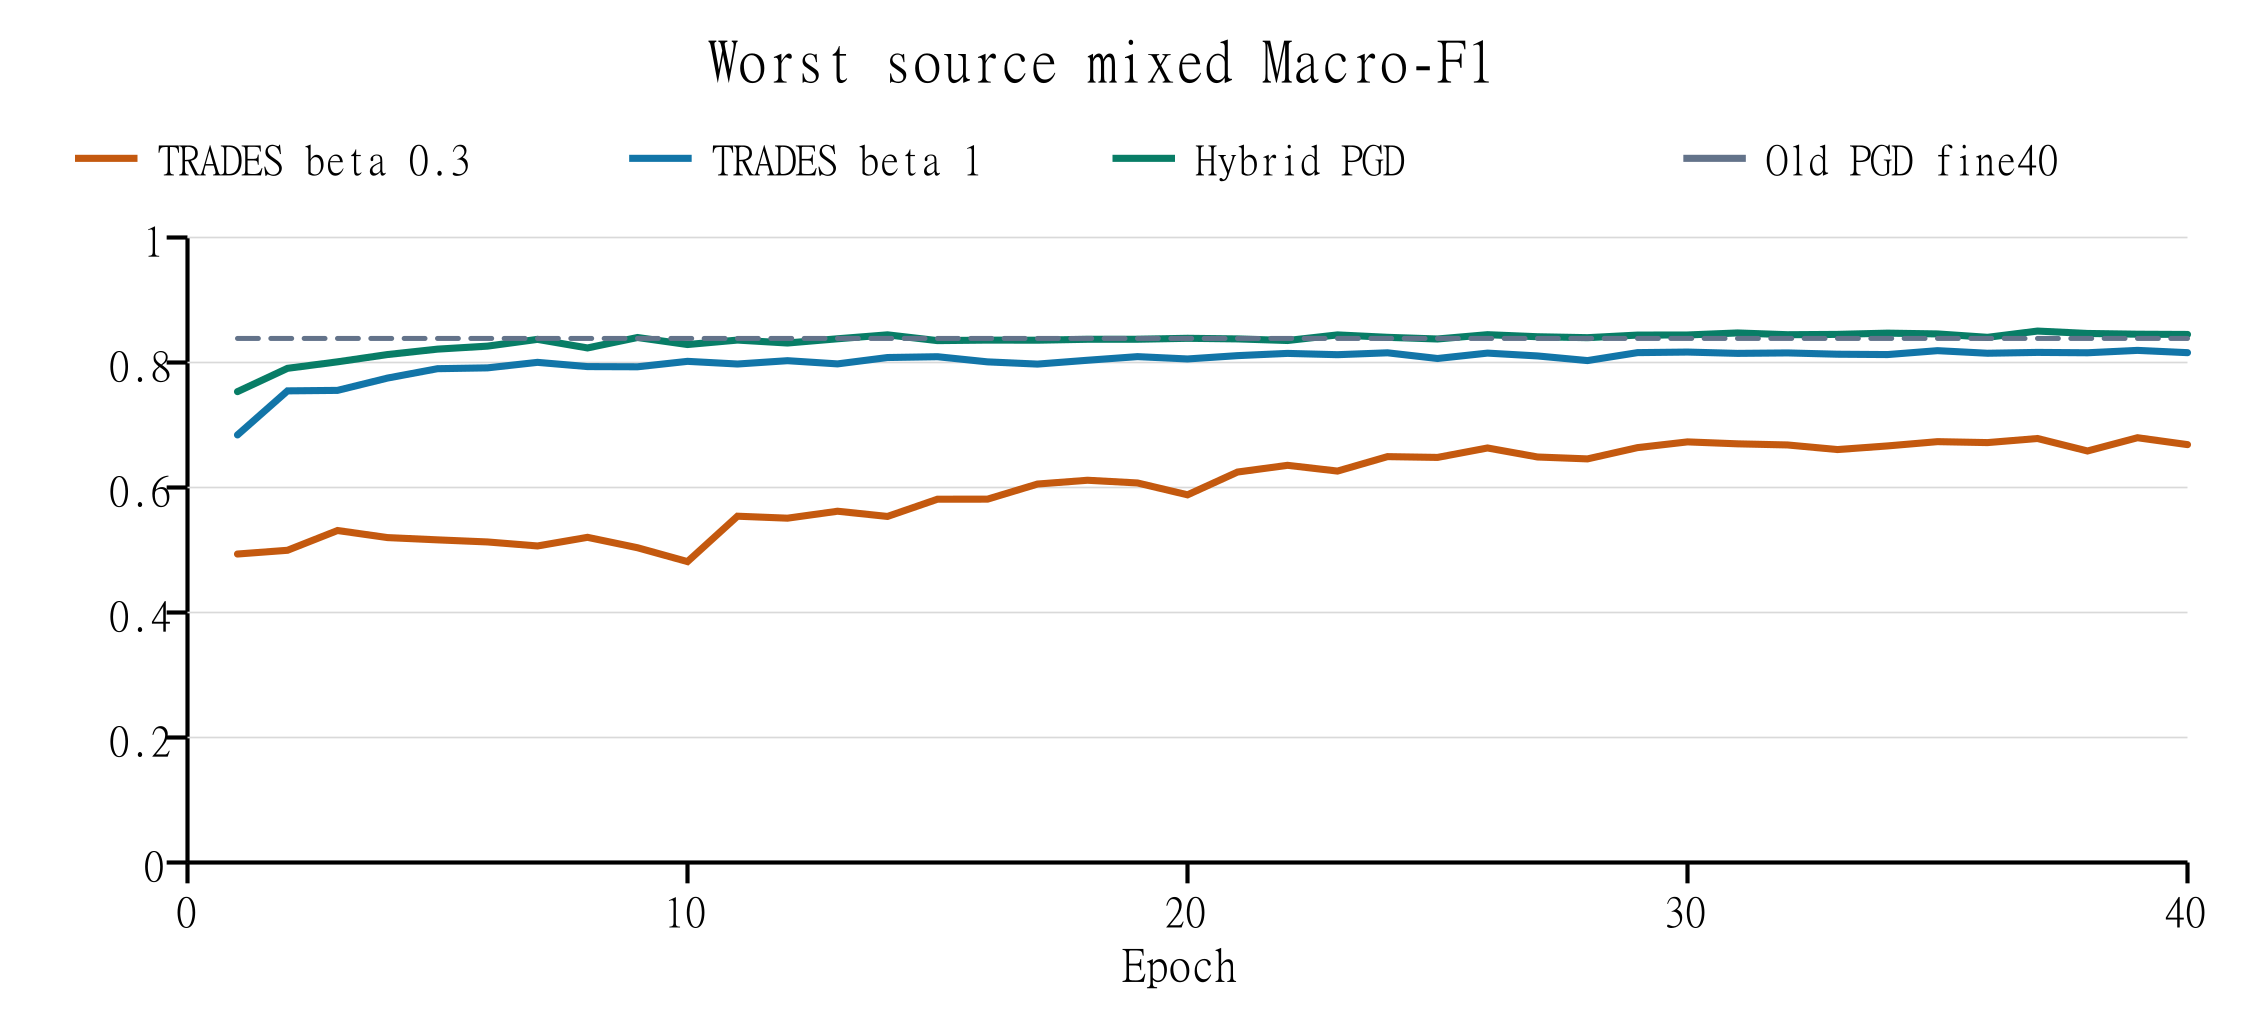
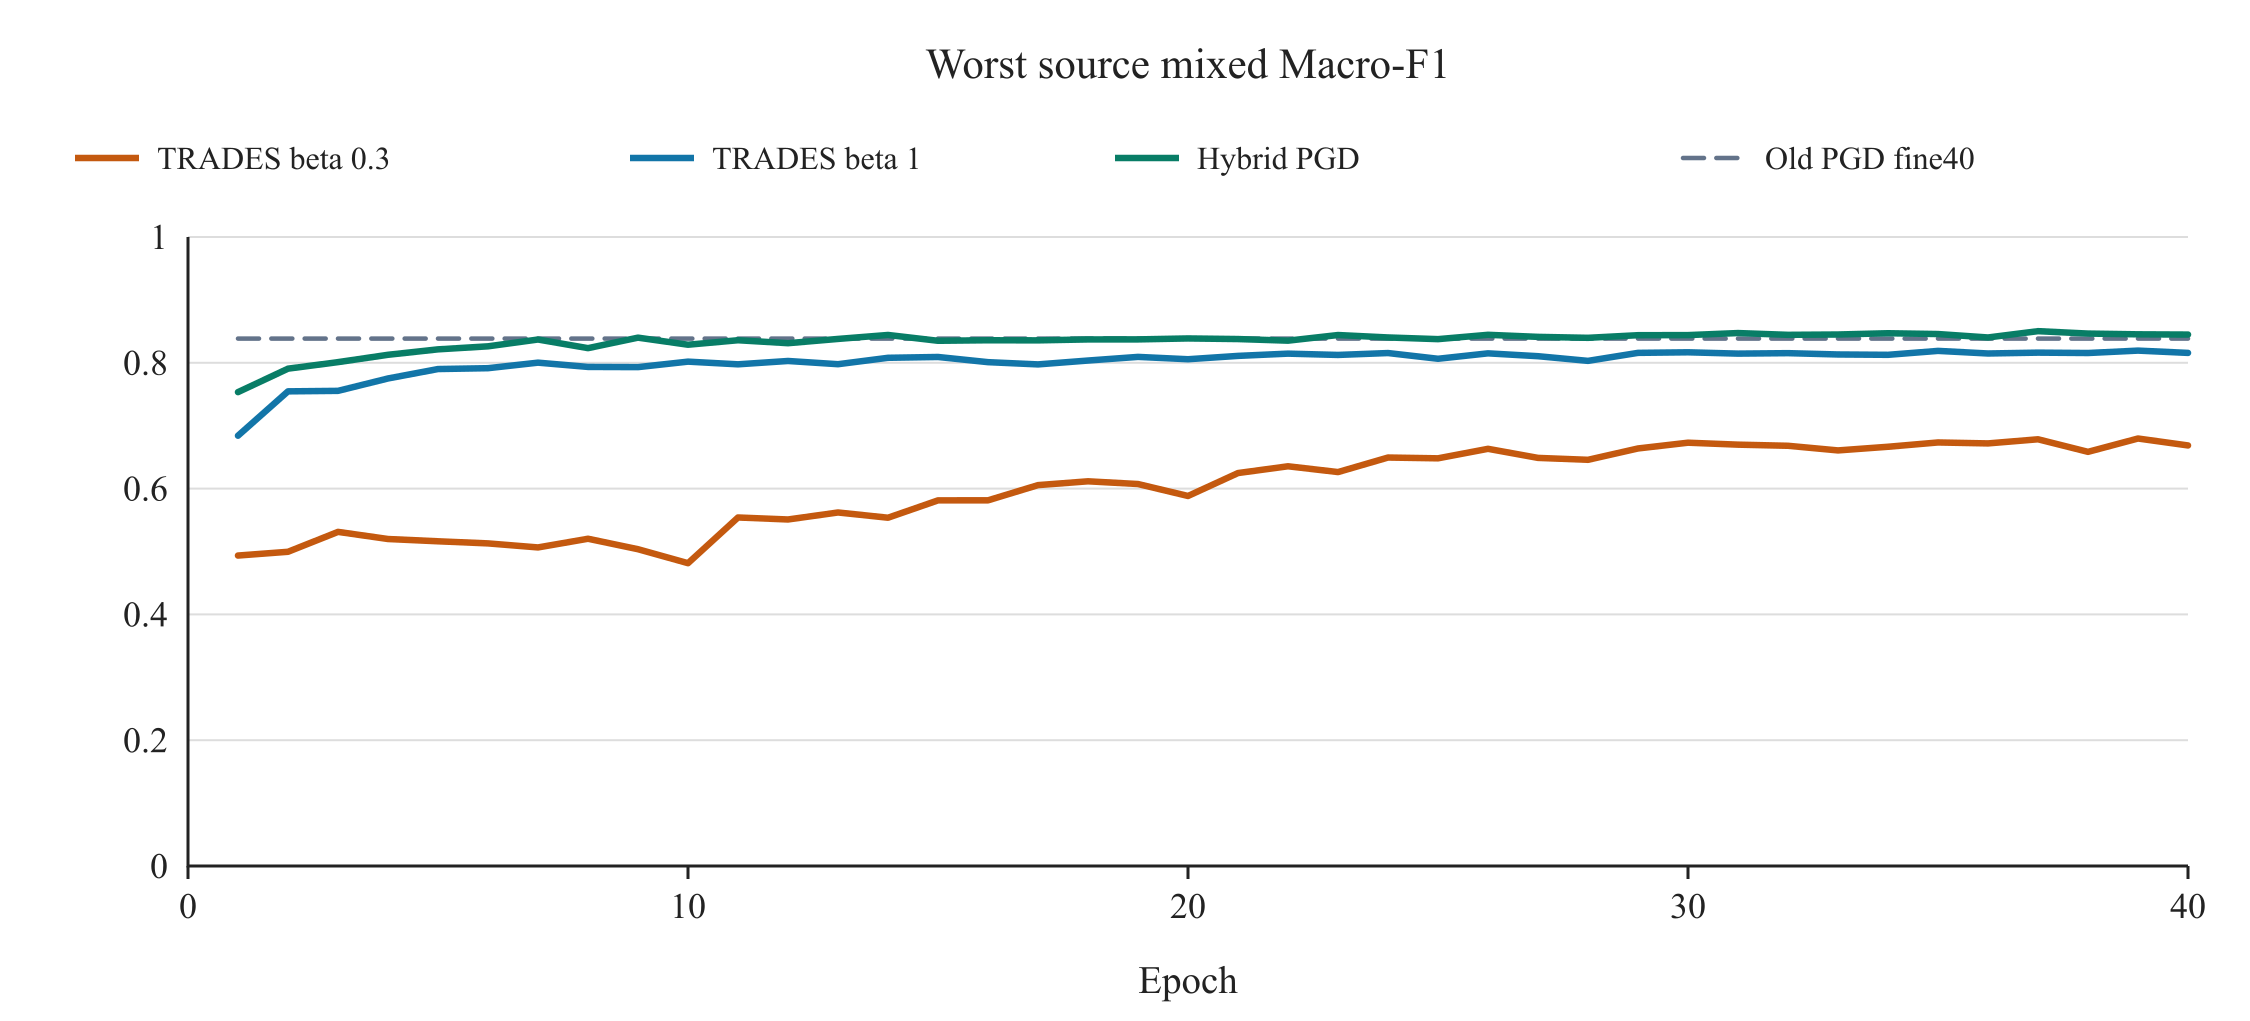
Match old PGD legend to dashed reference line

diff --git a/HANDOFF.md b/HANDOFF.md
@@ -2,6 +2,8 @@
 
 ## Current state
 
+Report figure legend corrected on 2026-11-07: Old PGD fine40 now uses the same dashed style as its horizontal reference. docs/assets/training_source_curves.png is rebuilt from the existing three archived 40-point curves and the unchanged reference F1 .8384964883441095. Editable SVG and scripts/render_training_source_curves.cjs (Node plus sharp) are retained to keep the legend and reference style linked. Image remains 2250x1021 at 300dpi. The user's current local editable Word in surrounding output/docx was updated by replacing only word/media/image1.png; every other package part, including the user's latest text edits, was preserved. All seven Word-rendered pages were visually checked. Do not replace that local document from the older repository report.
+
 Post-hoc loss-weight comparison completed on 2026-11-07 after the user's report review. Two independently supplied-initialized augmented PGD runs differ only in clean/adversarial CE weights .5/.5 versus .75/.25: fixed 10-epoch cosine horizon, LR .01, batch128, seed5577, existing7575/1894 split and PGD7. The primary comparison uses epoch10 for both, without validation-based reselection. Clean F1 is .790126 versus .864958; original-source PGD20x3 mixed F1 is .778121 versus .832457, while own-white-box PGD20x3 all-attacked F1 decreases from .340004 to .231000 (mixed .570533 to .555430). This supports a measured clean/source-transfer versus own-white-box tradeoff for this one-seed ten-epoch recipe, not an optimal weight claim or a forty-epoch ablation. Two full evaluations, all bounds/failure-retention checks and independent CSV metric recomputation passed; 26 prediction CSVs and raw/curated JSONs are in docs/results/loss_weights_10/. Nine training tests passed. Commands, exact configuration, timings and interpretation: docs/loss_weight_study.md. No new Kaggle submission or change to the deployed ensemble. This experiment occurred after the earlier Public results; preserve that chronology when incorporating it into the report. The user's separately edited Word in the surrounding output/docx directory also contains a newly inserted initial FGSM/PGD ten-epoch table; do not overwrite that local revision from the older repository report.
 
 Chinese report narrative revised on 2026-11-06 after user review. Section 2 now follows the project conditions (provided-source gradient attack, Linf 8/255), representative FGSM/PGD simulation, fixed-validation data flow, original/clean-finetuning comparison, and the need for adversarial training. Table 1 uses only the archived provided-source transfer metrics: both original and clean10 have PGD10/PGD20x3 F1 0; source-FGSM F1 is 0.191536/0.189759. It does not claim identification of the hidden test attack. Adaptive white-box and 200-image stress methods are explained in Section 4; Section 3 adds the missing initial-training transition. Repeated preemptive qualifications were trimmed. Current sources: docs/task3_report_zh.md and the editable docs/task3_report_zh.docx. Seven Word-rendered pages were visually checked; all table-1 metrics were matched to archived JSONs, and Word text/cells match Markdown. QA identities: docs/results/report_revision_2026-11-06.json. Original exported Word is preserved outside the repository. Next: user reviews this Chinese revision; English final still awaits approval, and PPT remains deferred. This revision uses the existing experiment records.
